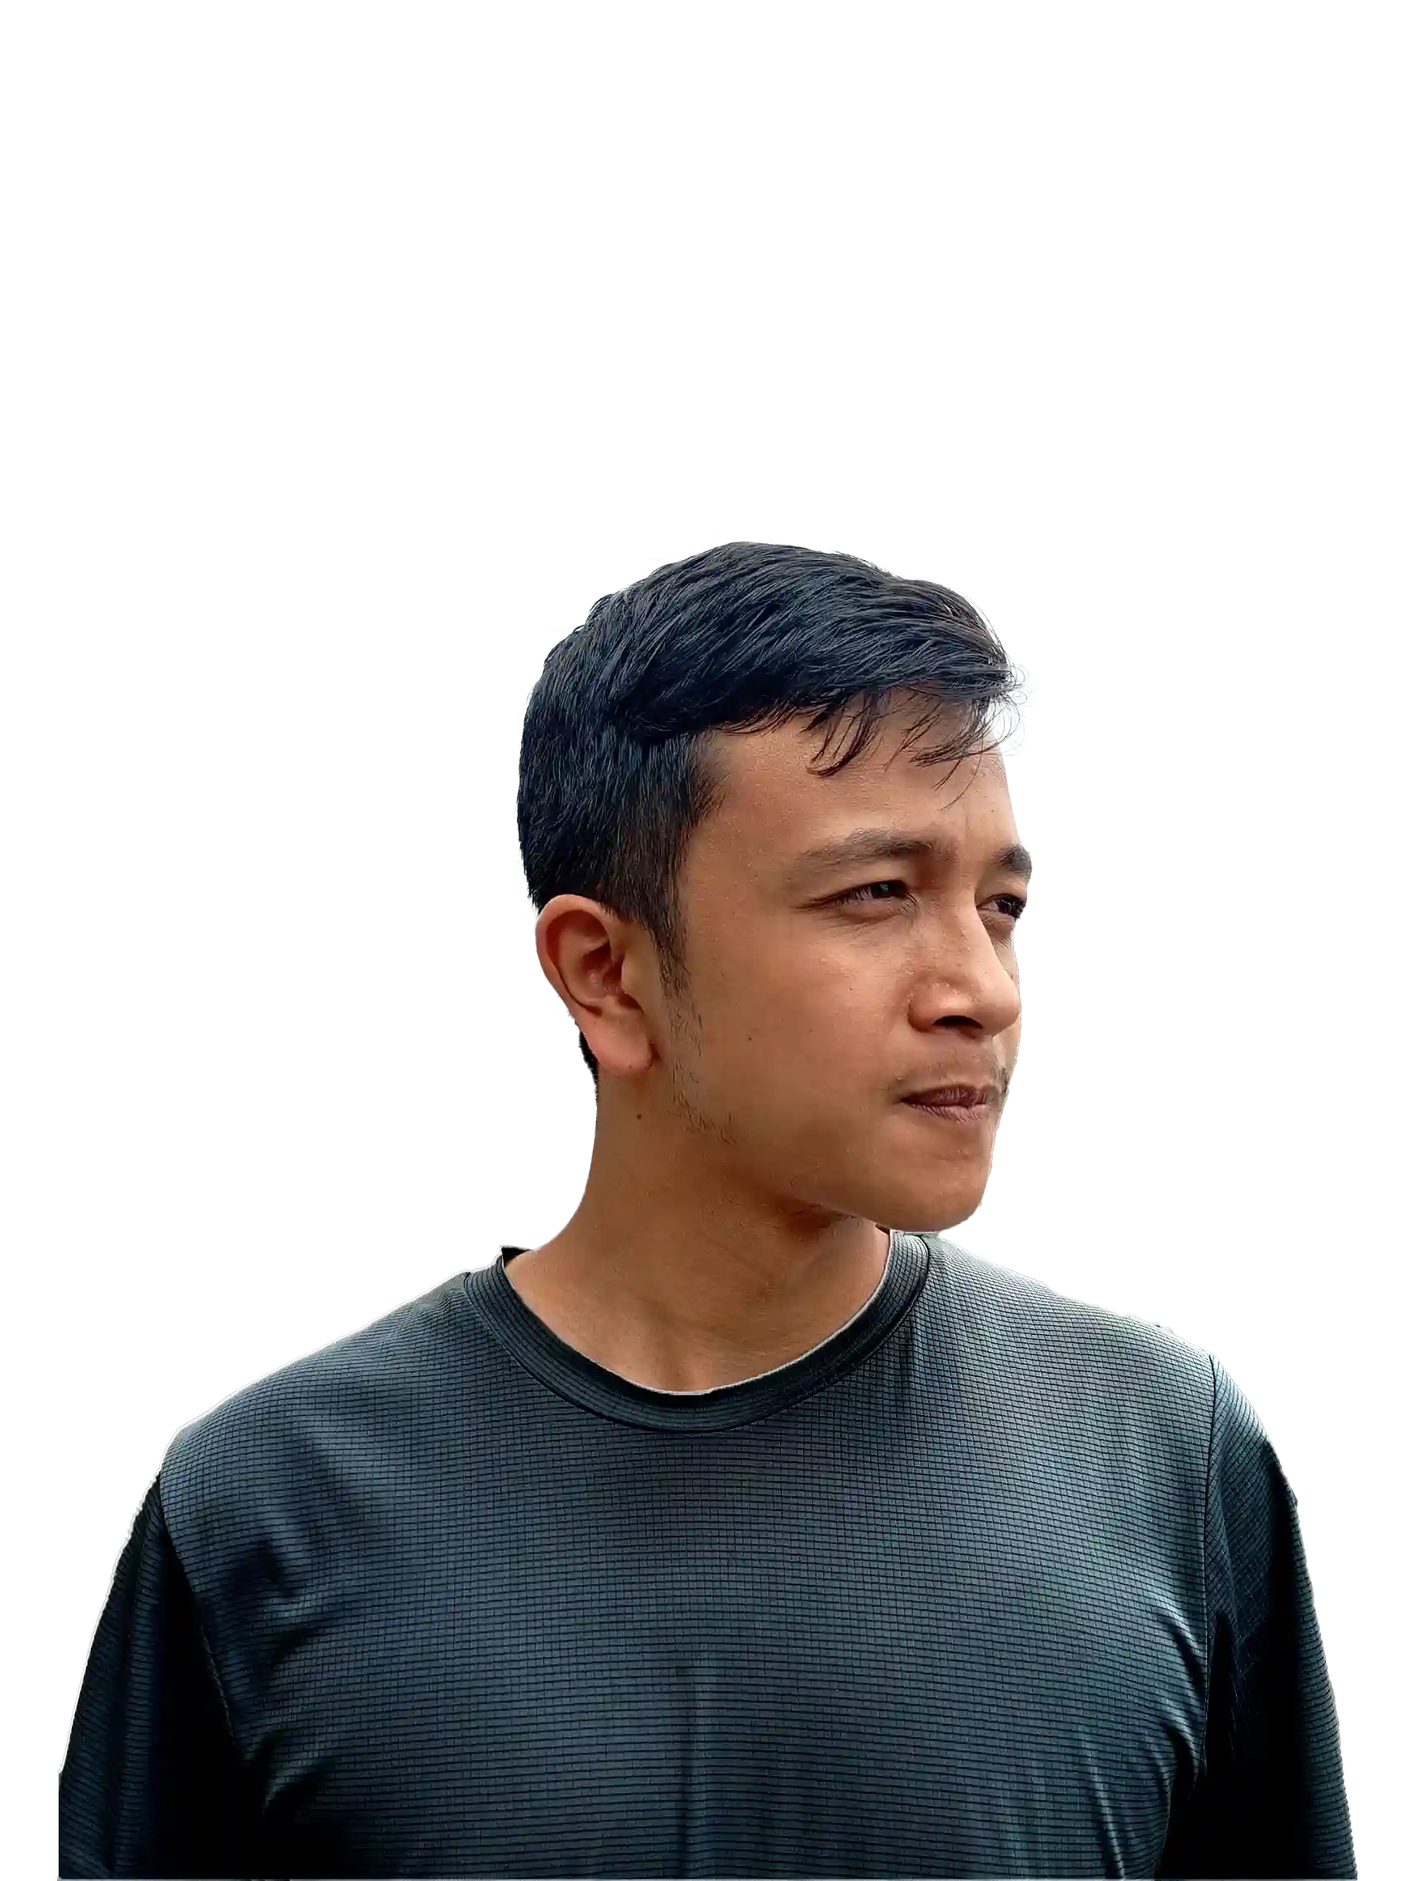
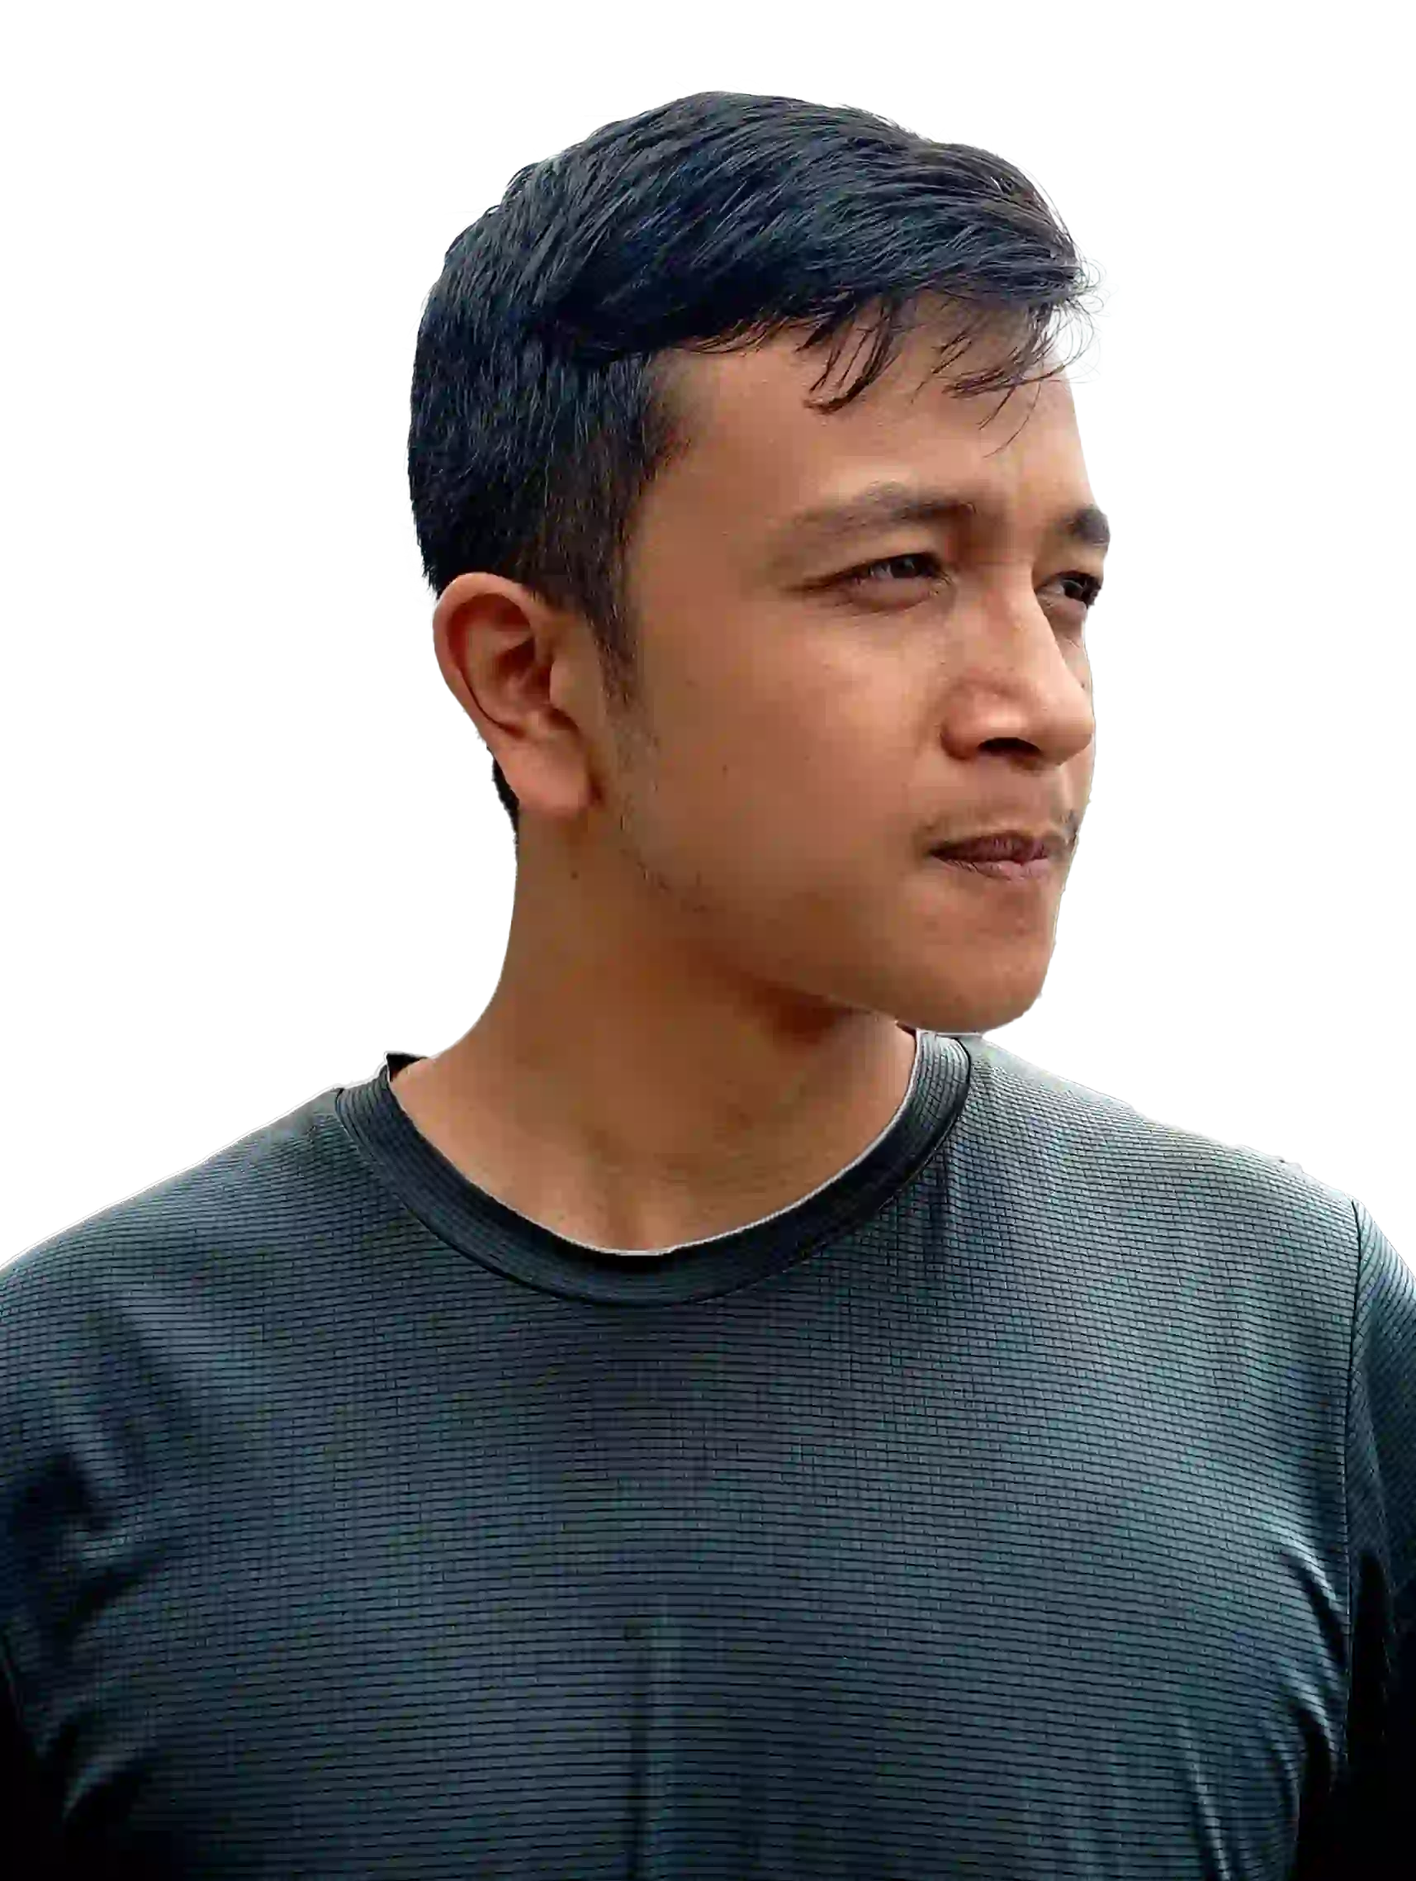
Add: Dark Mode in LocaleStorage

diff --git a/src/assets/components/Navbar.jsx b/src/assets/components/Navbar.jsx
@@ -21,17 +21,29 @@ const Navbar = React.forwardRef(({scrollToComponent},ref) => {
     setDarkMode(!isDarkMode);
     if(isDarkMode)
     {
+      window.localStorage.setItem("darkMode","true");
       document.documentElement.style.setProperty('--p1-color', '#0D0D0D');
       document.documentElement.style.setProperty('--p2-color', '#262626');
       document.documentElement.style.setProperty('--s1-color', '#F2F2F2');
       document.documentElement.style.setProperty('--s2-color', '#D9D9D9');
+      document.documentElement.style.setProperty('--n1-color', '#F2F2F2');
+      document.documentElement.style.setProperty('--n2-color', '#0D0D0D');
+      document.documentElement.style.setProperty('--n3-color', "#262626");
+      document.documentElement.style.setProperty('--n4-color', '#D9D9D9');
+      document.documentElement.style.setProperty('--image-filter', 'grayscale(1)');
     }
     else
     {
+      window.localStorage.setItem("darkMode","false");
       document.documentElement.style.setProperty('--s1-color', '#0D0D0D');
       document.documentElement.style.setProperty('--s2-color', '#262626');
       document.documentElement.style.setProperty('--p1-color', '#F2F2F2');
       document.documentElement.style.setProperty('--p2-color', '#D9D9D9');
+      document.documentElement.style.setProperty('--n1-color', '#ee7752');
+      document.documentElement.style.setProperty('--n2-color', '#e73cab');
+      document.documentElement.style.setProperty('--n3-color', '#23a6d5');
+      document.documentElement.style.setProperty('--n4-color', '#23d5ab');
+      document.documentElement.style.setProperty('--image-filter', 'grayscale(0)');
     }
   }
 
@@ -54,6 +66,8 @@ const Navbar = React.forwardRef(({scrollToComponent},ref) => {
         }, 100);
       }
     };
+
+    const darkModeChecker = window.localStorage.getItem("darkMode");
     
     if (window.matchMedia && window.matchMedia('(prefers-color-scheme: dark)').matches) {
         setDarkMode(false);
@@ -61,12 +75,70 @@ const Navbar = React.forwardRef(({scrollToComponent},ref) => {
         document.documentElement.style.setProperty('--p2-color', '#262626');
         document.documentElement.style.setProperty('--s1-color', '#F2F2F2');
         document.documentElement.style.setProperty('--s2-color', '#D9D9D9');
+        document.documentElement.style.setProperty('--n1-color', '#F2F2F2');
+        document.documentElement.style.setProperty('--n2-color', '#0D0D0D');
+        document.documentElement.style.setProperty('--n3-color', "#262626");
+        document.documentElement.style.setProperty('--n4-color', '#D9D9D9');
+        document.documentElement.style.setProperty('--image-filter', 'grayscale(1)');
+        if(darkModeChecker == "true"){
+          setDarkMode(false);
+          document.documentElement.style.setProperty('--p1-color', '#0D0D0D');
+          document.documentElement.style.setProperty('--p2-color', '#262626');
+          document.documentElement.style.setProperty('--s1-color', '#F2F2F2');
+          document.documentElement.style.setProperty('--s2-color', '#D9D9D9');
+          document.documentElement.style.setProperty('--n1-color', '#F2F2F2');
+          document.documentElement.style.setProperty('--n2-color', '#0D0D0D');
+          document.documentElement.style.setProperty('--n3-color', "#262626");
+          document.documentElement.style.setProperty('--n4-color', '#D9D9D9');
+          document.documentElement.style.setProperty('--image-filter', 'grayscale(1)');
+        }
+        else if(darkModeChecker == "false"){    
+          setDarkMode(true);
+          document.documentElement.style.setProperty('--s1-color', '#0D0D0D');
+          document.documentElement.style.setProperty('--s2-color', '#262626');
+          document.documentElement.style.setProperty('--p1-color', '#F2F2F2');
+          document.documentElement.style.setProperty('--p2-color', '#D9D9D9');
+          document.documentElement.style.setProperty('--n1-color', '#ee7752');
+          document.documentElement.style.setProperty('--n2-color', '#e73cab');
+          document.documentElement.style.setProperty('--n3-color', '#23a6d5');
+          document.documentElement.style.setProperty('--n4-color', '#23d5ab');
+          document.documentElement.style.setProperty('--image-filter', 'grayscale(0)');
+        }
     } else {
       setDarkMode(true);
       document.documentElement.style.setProperty('--s1-color', '#0D0D0D');
       document.documentElement.style.setProperty('--s2-color', '#262626');
       document.documentElement.style.setProperty('--p1-color', '#F2F2F2');
       document.documentElement.style.setProperty('--p2-color', '#D9D9D9');
+      document.documentElement.style.setProperty('--n1-color', '#ee7752');
+      document.documentElement.style.setProperty('--n2-color', '#e73cab');
+      document.documentElement.style.setProperty('--n3-color', '#23a6d5');
+      document.documentElement.style.setProperty('--n4-color', '#23d5ab');
+      document.documentElement.style.setProperty('--image-filter', 'grayscale(0)');
+      if(darkModeChecker == "true"){
+        setDarkMode(false);
+        document.documentElement.style.setProperty('--p1-color', '#0D0D0D');
+        document.documentElement.style.setProperty('--p2-color', '#262626');
+        document.documentElement.style.setProperty('--s1-color', '#F2F2F2');
+        document.documentElement.style.setProperty('--s2-color', '#D9D9D9');
+        document.documentElement.style.setProperty('--n1-color', '#F2F2F2');
+        document.documentElement.style.setProperty('--n2-color', '#0D0D0D');
+        document.documentElement.style.setProperty('--n3-color', "#262626");
+        document.documentElement.style.setProperty('--n4-color', '#D9D9D9');
+        document.documentElement.style.setProperty('--image-filter', 'grayscale(1)');
+      }
+      else if(darkModeChecker == "false"){    
+        setDarkMode(true);
+        document.documentElement.style.setProperty('--s1-color', '#0D0D0D');
+        document.documentElement.style.setProperty('--s2-color', '#262626');
+        document.documentElement.style.setProperty('--p1-color', '#F2F2F2');
+        document.documentElement.style.setProperty('--p2-color', '#D9D9D9');
+        document.documentElement.style.setProperty('--n1-color', '#ee7752');
+        document.documentElement.style.setProperty('--n2-color', '#e73cab');
+        document.documentElement.style.setProperty('--n3-color', '#23a6d5');
+        document.documentElement.style.setProperty('--n4-color', '#23d5ab');
+        document.documentElement.style.setProperty('--image-filter', 'grayscale(0)');
+      }
     }
 
     window.addEventListener('scroll',checkScroll)

diff --git a/src/index.scss b/src/index.scss
@@ -8,6 +8,8 @@
     --n3-color: #23a6d5;
     --n4-color: #23d5ab;
     --bg-color: var(--p1-color);
+    
+    --image-filter: grayscale(0%);
 
     --text-font-size: 2vh;
     --header-font-size: 3.5vh;
@@ -63,6 +65,7 @@ img, svg{
     object-fit: cover;
     fill: var(--s1-color);
     stroke: var(--s1-color);
+    filter: var(--image-filter);
 }
 
 *{
@@ -186,7 +189,8 @@ body{
         flex-direction: column;
         align-items: center;
         justify-content: center;
-        padding: 3vh;background-image: repeating-linear-gradient(0deg, var(--p2-color), var(--p2-color) .3vh, transparent .3vh, transparent);
+        padding: 3vh;
+        background-image: repeating-linear-gradient(0deg, var(--p2-color), var(--p2-color) .3vh, transparent .3vh, transparent);
         background-size: 5vh 5vh;
         background-color: var(--p1-color);
     }
@@ -239,7 +243,9 @@ body{
                 img{
                     width: 100%;
                     height: 100%;
-                    transform: scale(1.5);
+                    position: absolute;
+                    transform: scale(1.05);
+                    bottom: -10vh;
                     object-fit: cover;
                 }
             }
@@ -367,7 +373,10 @@ body{
                         height: 100%s;
                         background: linear-gradient(15deg, var(--n1-color),var(--n2-color),var(--n3-color),var(--n4-color));
                         background-size: 400% 400%;
-                        animation: gradient 5s ease infinite;           
+                        animation: gradient 5s ease infinite;   
+                        img{
+                            object-fit: contain !important;
+                        }        
                     }
                     .project-contents{
                         width: 100%;
@@ -387,7 +396,7 @@ body{
                             flex-direction: column;
                             gap: 2vh;
                             background: var(--p2-color);
-                            font-size: var(--header-font-size);
+                            font-size: var(--text-font-size);
                             span{
                                 font-weight: bold;
                                 text-transform: uppercase;
@@ -579,7 +588,8 @@ body{
                 line-height: var(--header-font-size) !important;
                 gap: 3vh !important;
                 .text{
-                    display: none !important;
+                    text-align: center;
+                    font-size: var(--text-font-size) !important;
                 }
             }
             .right-content{
@@ -593,6 +603,8 @@ body{
                 height: 40vh !important;
                 border-radius: 5vh;
                 img{
+                    position: relative !important;
+                    object-fit: contain !important;
                     transform: scale(1.3) !important;
                 }
             }

diff --git a/src/assets/components/project_data.jsx b/src/assets/components/project_data.jsx
@@ -4,7 +4,7 @@ const project_data = [
         desc: "A Digital marketer based in Dubai, a thriving hub for businesses in the Middle East. With a wealth of experience and expertise in the digital marketing landscape, he has established a remarkable track record of helping businesses succeed in the dynamic online realm. His services encompass a wide spectrum, from optimizing search engine visibility to crafting compelling content and managing impactful social media campaigns."
         ,techStack: "Html, Scss, Javascript",
         link: "https://www.nischalmalakar.com.np/",
-        photo: "/images/nischal-malakar-portfolio-sample.webp",
+        photo: "/images/nischal-malakar-image.webp",
     }
     ,
     {
@@ -12,7 +12,7 @@ const project_data = [
         desc: "A multi-talented creative visionary, specializing in the intricate art of Thangka painting while effortlessly traversing the diverse realms of modern and abstract art. With profound expertise in the ancient craft of Thangka. As a dedicated art teacher, she imparts her wisdom and passion to countless students, inspiring them to embrace their artistic aspirations and defy societal norms. Her journey from pursuing her dream work to becoming an influential figure, inspiring others to follow their creative paths, underscores the idea that true success lies in pursuing one's passions fearlessly, regardless of societal expectations. She is not just an artist but a transformative force, fostering creativity and self-expression in all who cross her path."
         ,techStack: "Html, Scss, Javascript",
         link: "https://www.junumali.com.np/",
-        photo: "/images/junu-mali-portfolio-sample.webp",
+        photo: "/images/junu-mali-photo.webp",
     }
     ,
     {
@@ -20,14 +20,14 @@ const project_data = [
         desc: "A website that was built for my college  which can do your homeworks, make generation of a cover page for your assignments according the standards of my college, and also provide you with notes that are relevant to you!",
         techStack: "TypeScript, React, Scss",
         link: "https://jugalshrestha.github.io/bim21/",
-        photo: "/images/bim21-sample.webp",
+        photo: "/images/bim21-photo.webp",
     },
     {
         name: "Algo Visualizer",
         desc: " it will make you understand the working of sorting algorithms with visualization of the actual process. Bubble sort, selection sort, insertion sort, etc.",
         techStack: "JavaScript, HTML, SCSS",
         link: "https://jugalshrestha.github.io/sorting-algorithm-visualizer/",
-        photo:  "/images/algo-visualizer-sample.webp",
+        photo:  "/images/algo-visualizer-photo.webp",
     }
 ]
 

diff --git a/404.html b/404.html
@@ -4,7 +4,46 @@
     <meta charset="UTF-8" />
     <meta name="viewport" content="width=device-width, initial-scale=1.0" />
     <title>Jugal Shrestha - 404</title>
+    <link rel="preconnect" href="https://fonts.googleapis.com" />
+    <link rel="preconnect" href="https://fonts.gstatic.com" crossorigin />
+    <link
+      href="https://fonts.googleapis.com/css2?family=Roboto+Mono:wght@100;400;700&display=swap"
+      rel="stylesheet"
+    />
     <style>
+      :root {
+        --p1-color: #f2f2f2;
+        --p2-color: #d9d9d9;
+        --s1-color: #0d0d0d;
+        --s2-color: #262626;
+        --n1-color: #ee7752;
+        --n2-color: #e73cab;
+        --n3-color: #23a6d5;
+        --n4-color: #23d5ab;
+        --bg-color: var(--p1-color);
+
+        --text-font-size: 2vh;
+        --header-font-size: 3.5vh;
+        --big-font-size: 15vh;
+        --font-family: "Roboto Mono", monospace;
+        --text-weight: 400;
+        --light-weight: 100;
+        --bold-weight: 700;
+      }
+
+      * {
+        margin: 0;
+        padding: 0;
+        box-sizing: border-box;
+        color: var(--s1-color);
+        border: none;
+        outline: none;
+        font-family: var(--font-family);
+        font-size: var(--text-font-size);
+        font-weight: var(--text-weight);
+        text-decoration: none;
+      }
+
       body {
         width: 100%;
         height: 100vh;
@@ -12,14 +51,24 @@
         flex-direction: column;
         align-items: center;
         justify-content: center;
-        gap: 10vh;
+        background: var(--p1-color);
+        gap: 5vh;
+        background-image: repeating-linear-gradient(
+          0deg,
+          var(--p2-color),
+          var(--p2-color) 0.3vh,
+          transparent 0.3vh,
+          transparent
+        );
+        background-size: 5vh 5vh;
+        background-color: var(--p1-color);
       }
       a {
-        font-size: 15vh;
+        font-size: var(--header-font-size);
         padding: 2vh;
         text-decoration: none;
-        background: black;
-        color: white;
+        background: var(--s1-color);
+        color: var(--p1-color);
         text-transform: uppercase;
         border-radius: 1vh;
       }

diff --git a/src/index.css b/src/index.css
@@ -8,6 +8,7 @@
   --n3-color: #23a6d5;
   --n4-color: #23d5ab;
   --bg-color: var(--p1-color);
+  --image-filter: grayscale(0%);
   --text-font-size: 2vh;
   --header-font-size: 3.5vh;
   --big-font-size: 15vh;
@@ -68,6 +69,7 @@ img, svg {
      object-fit: cover;
   fill: var(--s1-color);
   stroke: var(--s1-color);
+  filter: var(--image-filter);
 }
 
 * {
@@ -244,7 +246,9 @@ body #hero-page .hero-page-contents .big-content .overlay {
 body #hero-page .hero-page-contents .big-content img {
   width: 100%;
   height: 100%;
-  transform: scale(1.5);
+  position: absolute;
+  transform: scale(1.05);
+  bottom: -10vh;
   -o-object-fit: cover;
      object-fit: cover;
 }
@@ -377,6 +381,10 @@ body #project-page .projects .project .project-body .project-image {
   background-size: 400% 400%;
   animation: gradient 5s ease infinite;
 }
+body #project-page .projects .project .project-body .project-image img {
+  -o-object-fit: contain !important;
+     object-fit: contain !important;
+}
 body #project-page .projects .project .project-body .project-contents {
   width: 100%;
   height: 100%;
@@ -397,7 +405,7 @@ body #project-page .projects .project .project-body .project-contents .project-d
   flex-direction: column;
   gap: 2vh;
   background: var(--p2-color);
-  font-size: var(--header-font-size);
+  font-size: var(--text-font-size);
 }
 body #project-page .projects .project .project-body .project-contents .project-desc span {
   font-weight: bold;
@@ -578,7 +586,8 @@ body #contact-page form button {
     gap: 3vh !important;
   }
   #hero-page .hero-page-contents .left-content .text {
-    display: none !important;
+    text-align: center;
+    font-size: var(--text-font-size) !important;
   }
   #hero-page .hero-page-contents .right-content {
     padding: 1vh !important;
@@ -592,6 +601,9 @@ body #contact-page form button {
     border-radius: 5vh;
   }
   #hero-page .hero-page-contents .big-content img {
+    position: relative !important;
+    -o-object-fit: contain !important;
+       object-fit: contain !important;
     transform: scale(1.3) !important;
   }
   #project-page .projects {

diff --git a/src/assets/components/Project.jsx b/src/assets/components/Project.jsx
@@ -53,11 +53,11 @@ const fromTopVairants = {
           <img src={photo} alt="photos" />
         </motion.div>
         <div className="project-contents">
-          <motion.div variants={fromRightVairants} initial="initial" whileInView="animation" transition={{delay:.4,type:"spring"}} className="project-desc">
+          <motion.div variants={fromRightVairants} initial="initial" whileInView="animation" transition={{delay:.2,type:"spring"}} className="project-desc">
               <span>{name+":"}</span>
               {desc}
           </motion.div>
-          <motion.div variants={fromBottomVairants} initial="initial" whileInView="animation" transition={{delay:.4,type:"spring"}} className="project-link">
+          <motion.div variants={fromBottomVairants} initial="initial" whileInView="animation" transition={{delay:.2,type:"spring"}} className="project-link">
             <a href={link} target="_blank" rel="noopener noreferrer">View Work! <svg viewBox="0 0 79 104" fill="none" xmlns="http://www.w3.org/2000/svg"><path d="M4 100.088L75 4M75 4H21.75M75 4V76.0661" strokeWidth="2" strokeLinecap="round" strokeLinejoin="round"/></svg></a>
             <div className="overlay"></div>
           </motion.div>
